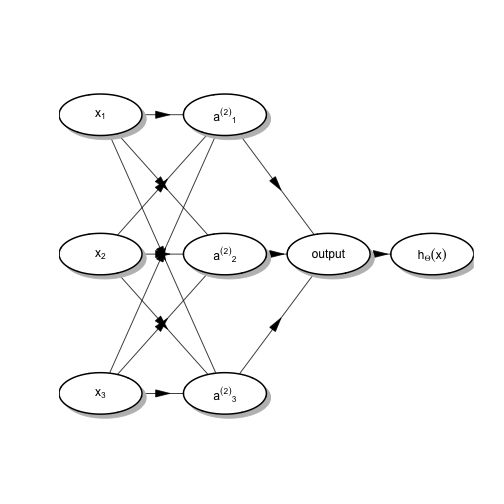
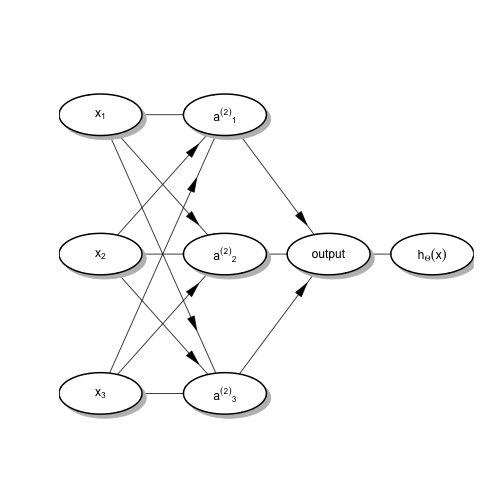
whoops

diff --git a/_posts/2015-02-03-Neural-networks.md b/_posts/2015-02-03-Neural-networks.md
@@ -43,14 +43,14 @@ pos <- matrix(c(c(0.10, 0.850),
 
 plotmat(M, pos = pos, name = names, lwd = 1, box.lwd = 2, 
         curve = 0, cex.txt = 0.8, box.size = 0.1,
-        box.prop = 0.5, arr.type = "triangle")
+        box.prop = 0.5, arr.type = "triangle", arr.pos = .75)
 {% endhighlight %}
 
 ![center](../../../../../images/blog/2015-02-03-Neural-networks/unnamed-chunk-1-1.png) 
 
 The model is thought of as being in three layers (from left to right): the visible layer, the hidden layer, and the output layer. The hidden layer activation nodes values $a_i^{(2)}, i =1,\dots,3$ are each calculated as the sigmoid function of the linear combination of $x_j$'s. For example, $a_i^{(2)} = g\left(\sum_{j=1}^3\theta^{(1)}_{ij}x_j\right)$ where $g(x) = \frac{1}{1+e^{-x}}$. Then, at the output layer, each of these activation units is put together the same way to get $h_\theta(x) = g\left(\sum_{j=1}^3\theta^{(2)}_{ij}a^{(2)}_j\right)$. In this way, neural networks are similar to inception.
 
-<img src="{{ page.root }}images/blog/2015-02-03-Neural-networks/inception_meme.jpg" alt="http://bigdatapix.tumblr.com/" style="width: 500px;"/>
+<img src="{{ page.root }}images/blog/2015-02-03-Neural-networks/inception_meme.png" alt="inception" style="width: 500px;"/>
 
 ###Links to biology
 Neural networks are so named because supposedly, this is what our brains do. They have neurons that have inputs and outputs and they connect to each other to relay messages. This ties to statistical learning in that it is thought that the neurons themselves can learn as well. So rather than having a set of neurons for everything we could want to do in life, we have a bunch of neurons that can learn everything we need to know, when we need it. Neural networks are so called because the algorithm was an attempt to mimic the brain.
